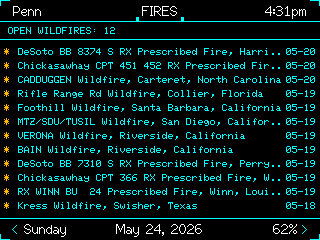
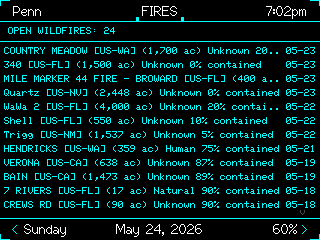
Update FIRES screenshot and README descriptions
- Replace FIRES screenshot with updated WFIGS version
- Update README: FIRES now shows WFIGS data (state, acres, cause, containment)
- Update README: USGS and SOLAR now reflect scrollable/swipe + hourly refresh

Changed region(s): [[0.0, 0.1167, 1.0, 0.9042], [0.8125, 0.0292, 0.9062, 0.0583], [0.875, 0.9333, 0.9062, 0.9917]]

diff --git a/README.md b/README.md
@@ -40,12 +40,18 @@ A tactical environmental monitoring station for the ESP32-2432S028 (CYD / Cheap 
 - X-ray flux class, flare class and peak time, CME speed and detection time
 - Aurora visibility label
 - 24-hour Kp history bar chart
+- Auto-refreshes at the top of each hour; tap title bar for manual refresh
 
 **FIRES screen:**
-- NASA EONET wildfire events — up to 12 recent events with location and date
+- NIFC WFIGS active wildfire events — fire name, state, acreage, cause, and containment %
+- Sorted newest-first, scrollable via swipe up/down, scroll indicators (^ / v)
+- Tap title bar to force a refresh; auto-refreshes every 15 minutes
+- Prescribed burns automatically filtered out
 
 **USGS screen:**
-- USGS earthquake feed — up to 12 recent M3.5+ events with magnitude, location, and time
+- USGS earthquake feed — M3.5+ events with magnitude, location, and time
+- Sorted newest-first, scrollable via swipe up/down, scroll indicators (^ / v)
+- Tap title bar to force a refresh; auto-refreshes every 15 minutes
 
 **NEWS screen:**
 - Breaking news from r/news — crime, disasters, major incidents. Strictly moderated (no fluff, no opinion).
